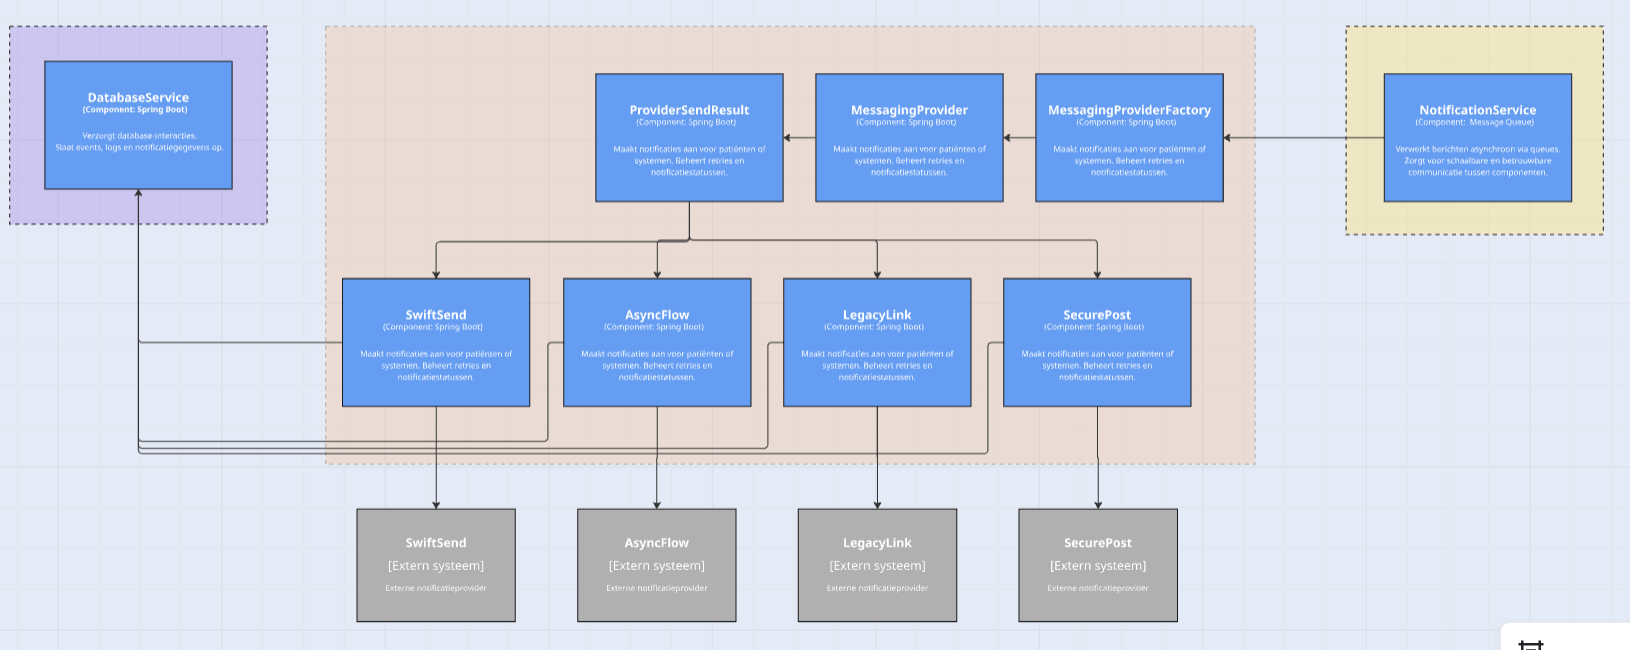
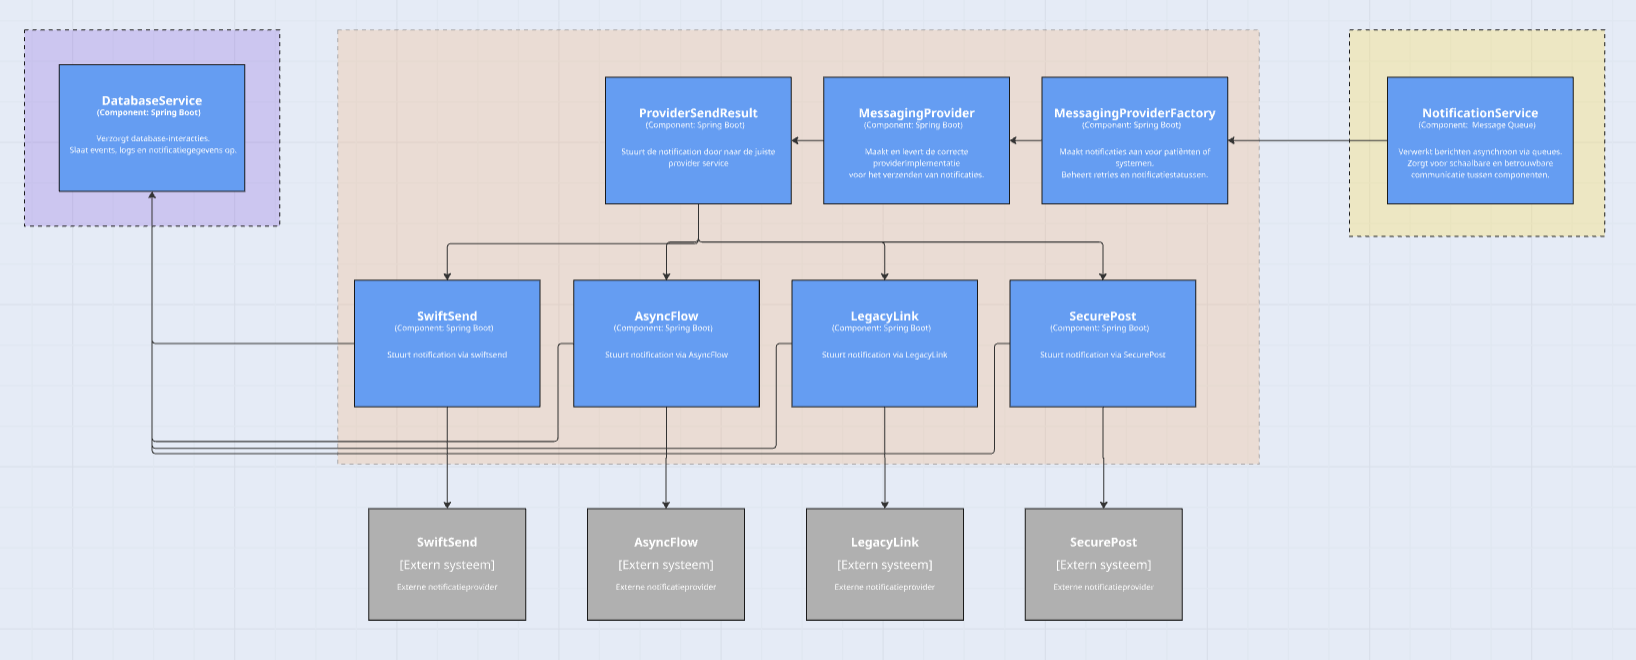
Add keystore and update C3 Notification diagram
Add a new PKCS#12 keystore at src/main/resources/keystore.p12 and replace/update the C3-Notification-service.png diagram in Documentatie/Visualisatie/C4-Model. The keystore is included in resources for application TLS/certificate use; the PNG update refreshes the C3-level visualization of the Notification service.

Changed region(s): [[0.0, 0.0308, 1.0, 0.9846], [0.9202, 0.9538, 1.0, 1.0], [0.8282, 0.0308, 0.9816, 0.0615]]

diff --git a/src/main/java/com/example/atx24softwarearchitectuurkwaliteit/config/WebClientConfig.java b/src/main/java/com/example/atx24softwarearchitectuurkwaliteit/config/WebClientConfig.java
@@ -1,14 +1,50 @@
 package com.example.atx24softwarearchitectuurkwaliteit.config;
 
+import io.netty.handler.ssl.SslContext;
+import io.netty.handler.ssl.SslContextBuilder;
+import io.netty.handler.ssl.SslProvider;
+import io.netty.handler.ssl.util.InsecureTrustManagerFactory;
+import org.springframework.beans.factory.annotation.Value;
 import org.springframework.context.annotation.Bean;
 import org.springframework.context.annotation.Configuration;
+import org.springframework.http.client.reactive.ReactorClientHttpConnector;
 import org.springframework.web.reactive.function.client.WebClient;
+import reactor.netty.http.client.HttpClient;
 
+import javax.net.ssl.SSLException;
+
+/**
+ * NFR5 (transport): configures WebClient to enforce TLS 1.3 for all outbound
+ * HTTPS connections. TLS 1.0, 1.1 and 1.2 are explicitly excluded.
+ *
+ * The dev profile trusts all certificates (InsecureTrustManagerFactory) so that
+ * fake/stub servers with self-signed certs work out of the box. In production,
+ * set SSL_TRUST_ALL=false and supply a proper trust store via JVM system properties
+ * or a custom TrustManagerFactory.
+ */
 @Configuration
 public class WebClientConfig {
 
+    @Value("${ssl.trust-all:true}")
+    private boolean trustAll;
+
     @Bean
-    public WebClient webClient(WebClient.Builder builder) {
-        return WebClient.builder().build();
+    public WebClient webClient() throws SSLException {
+        SslContextBuilder builder = SslContextBuilder.forClient()
+                .sslProvider(SslProvider.JDK)
+                .protocols("TLSv1.3");
+
+        if (trustAll) {
+            builder.trustManager(InsecureTrustManagerFactory.INSTANCE);
+        }
+
+        SslContext sslContext = builder.build();
+
+        HttpClient httpClient = HttpClient.create()
+                .secure(spec -> spec.sslContext(sslContext));
+
+        return WebClient.builder()
+                .clientConnector(new ReactorClientHttpConnector(httpClient))
+                .build();
     }
 }